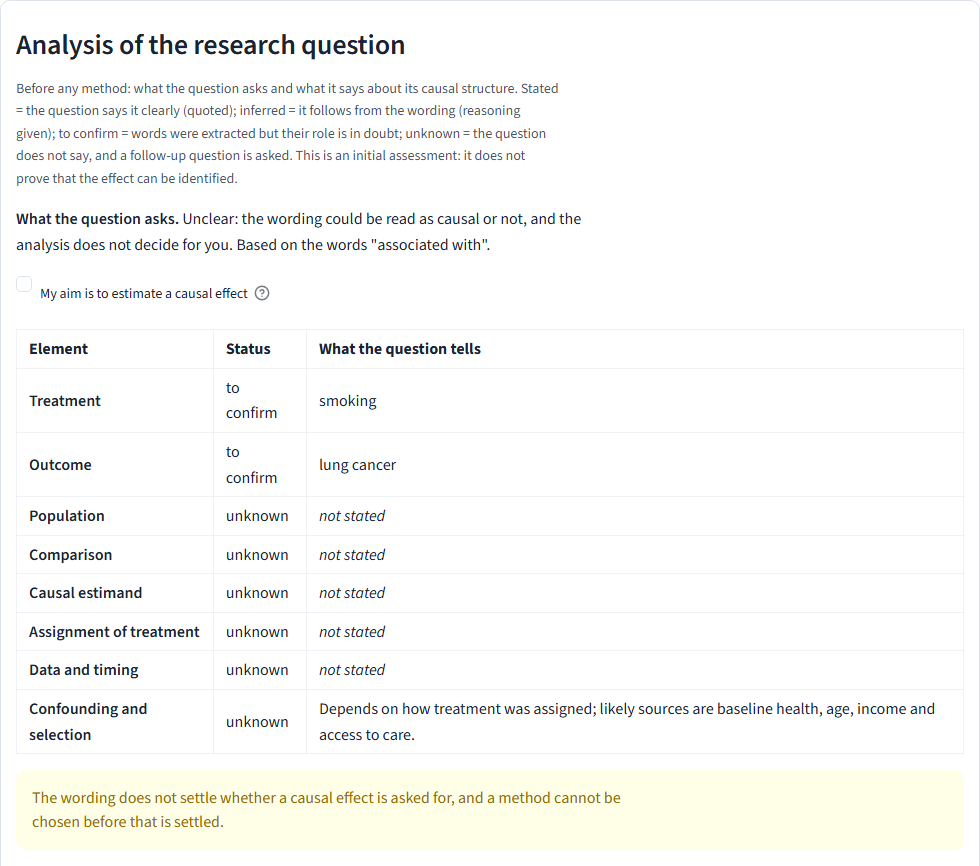
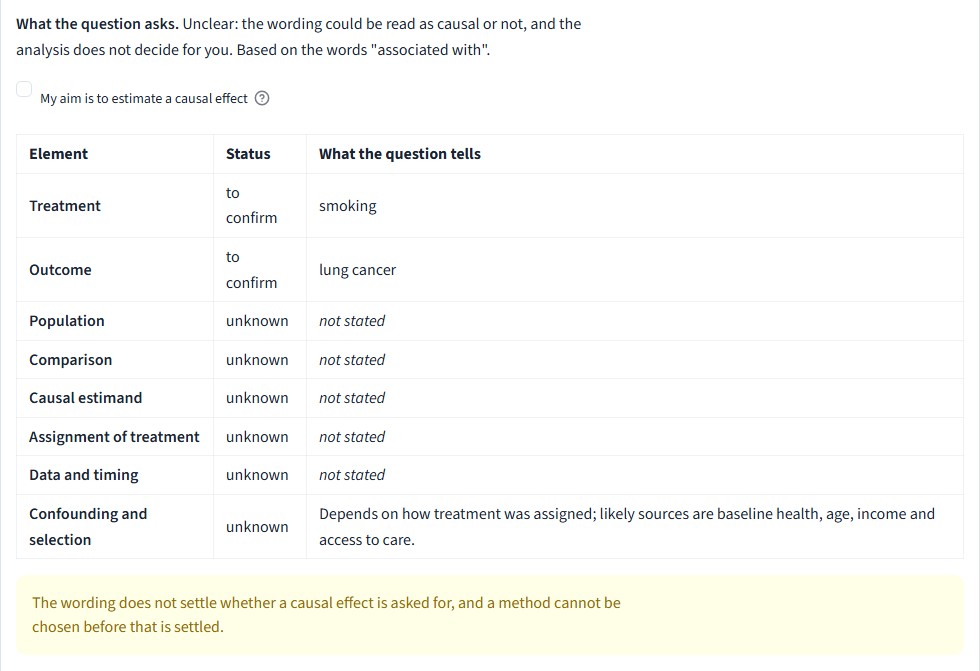
Promo page: the critique's five fixes (main result first, numbers beside the analyser, dated crops)

diff --git a/docs/index.html b/docs/index.html
@@ -56,10 +56,10 @@ img { display: block; max-width: 100%; height: auto; }
 
 /* First viewport: the question as a data portrait */
 .portrait { padding: clamp(1.5rem, 4vh, 3rem) var(--gutter) clamp(2rem, 5vh, 3.5rem); }
-.promise { font-size: clamp(1.6rem, 2.6vw, 2.6rem); max-width: 52ch; margin: 0 0 clamp(1.5rem, 4vh, 2.75rem); }
-.promise .k1 { text-decoration: underline; text-decoration-color: color-mix(in oklch, var(--pink) 85%, transparent); text-decoration-thickness: 0.22em; text-underline-offset: 0.02em; text-decoration-skip-ink: none; }
+.promise { line-height: 1.08; font-size: clamp(1.6rem, 2.6vw, 2.6rem); max-width: 52ch; margin: 0 0 clamp(1.5rem, 4vh, 2.75rem); }
+.promise .k1 { text-decoration: underline; text-decoration-color: var(--pink); text-decoration-thickness: 0.16em; text-underline-offset: 0.1em; text-decoration-skip-ink: none; }
 .promise .k2 { color: color-mix(in oklch, var(--blue) 85%, var(--ink)); }
-.promise .k3 { color: color-mix(in oklch, var(--crimson) 85%, var(--ink)); }
+.promise .k3 { color: var(--crimson); }
 .stage { display: grid; gap: clamp(1.25rem, 3vh, 2rem); }
 .question { display: grid; gap: clamp(0.5rem, 1.4vh, 1rem); margin: 0; font-size: clamp(2.4rem, 5.6vw, 6rem); }
 .question .line { display: flex; flex-wrap: wrap; align-items: flex-end; gap: 0.4rem clamp(0.5rem, 1.2vw, 1rem); }
@@ -79,7 +79,7 @@ img { display: block; max-width: 100%; height: auto; }
 .f-pink { --field: var(--pink); }
 .f-gold { --field: var(--gold); }
 .verdict { margin: 0; font-size: clamp(1.6rem, 2.6vw, 2.5rem); }
-.verdict span { color: var(--blue); }
+.speaker { font-family: var(--display); font-weight: 800; text-transform: uppercase; letter-spacing: 0.1em; font-size: 0.95rem; color: var(--ink-soft); margin: 0 0 0.6rem; }
 .action { display: flex; flex-wrap: wrap; align-items: center; gap: 1rem 2rem; }
 .try {
   display: inline-block; background: var(--blue); color: #FFFFFF; text-decoration: none;
@@ -104,6 +104,12 @@ img { display: block; max-width: 100%; height: auto; }
 .key span { display: inline-flex; align-items: center; gap: 0.5rem; }
 .key i { display: inline-block; width: 1.6rem; height: 1rem; background: var(--c); }
 
+.main-line { margin: clamp(1.5rem, 4vh, 2.5rem) 0 0; padding-top: 1rem; border-top: 2px solid var(--ink); font-weight: 600; font-size: 1.1rem; }
+.main-line a { color: var(--ink); text-decoration-color: var(--crimson); }
+.main-line a:hover { color: var(--crimson); }
+.evidence { margin: 1.2rem 0 0; padding-top: 0.8rem; border-top: 2px solid var(--ink); font-size: 0.98rem; color: var(--ink-soft); max-width: 62ch; }
+.evidence strong { color: var(--ink); }
+
 /* The one ruled line through the beats */
 .beats { position: relative; }
 .beats::before {
@@ -115,7 +121,7 @@ img { display: block; max-width: 100%; height: auto; }
   width: 1.2rem; height: 1.2rem; border-radius: 50%; background: var(--ink); border: var(--rule) solid var(--board);
 }
 .beat h2 { font-size: clamp(2.2rem, 5.2vw, 4.4rem); margin: 0 0 1.4rem; max-width: 18ch; }
-.beat .lede { max-width: 62ch; margin: 0 0 2rem; font-size: 1.2rem; }
+.beat .lede { max-width: 62ch; margin: 0 0 2rem; font-size: 1.2rem; text-wrap: pretty; }
 .beat .lede em { font-style: italic; }
 .pair { display: grid; grid-template-columns: minmax(0, 1fr); gap: 2rem; align-items: start; }
 @media (min-width: 64rem) { .pair { grid-template-columns: minmax(0, 5fr) minmax(0, 7fr); gap: 3rem; } }
@@ -147,6 +153,7 @@ img { display: block; max-width: 100%; height: auto; }
 .result .shot { border-color: #FFFFFF; }
 .result .shot figcaption { color: #D7DCE6; border-top-color: #FFFFFF; background: var(--ink); }
 .chart { margin: 0 0 2.5rem; max-width: 60rem; }
+.chart h3.second { margin-top: 1.6rem; }
 .chart h3 { font-family: var(--display); font-weight: 800; text-transform: uppercase; letter-spacing: 0.06em; font-size: 1.05rem; margin: 0 0 0.8rem; color: #D7DCE6; }
 .row { display: grid; grid-template-columns: minmax(9rem, 15rem) 1fr; gap: 0.4rem 1rem; align-items: center; margin-bottom: 0.65rem; }
 .row .k { font-family: var(--display); font-weight: 800; text-transform: uppercase; letter-spacing: 0.03em; line-height: 1.05; font-size: 1.15rem; }
@@ -176,8 +183,11 @@ th, td { text-align: left; white-space: nowrap; padding: 0.4rem 1.1rem 0.4rem 0;
 thead th { border-bottom: 2px solid var(--ink); font-weight: 700; }
 td.fails { color: var(--crimson); font-weight: 700; }
 .table-wrap { overflow-x: auto; }
+.v2-inline { display: none; }
+@media (max-width: 40rem) { .v2 { display: none; } .v2-inline { display: inline; } th, td { white-space: normal; } }
 .not { font-family: var(--display); font-weight: 800; font-size: clamp(1.6rem, 2.8vw, 2.4rem); line-height: 1.12; max-width: 30ch; margin: 0; text-wrap: balance; }
 .not-body { max-width: 62ch; margin: 1.2rem 0 0; }
+.close { margin: 2rem 0 0; }
 
 footer { border-top: var(--rule) solid var(--ink); padding: 2rem var(--gutter) 3rem; display: grid; gap: 0.6rem; font-size: 1rem; }
 footer .name { font-size: 1.9rem; margin: 0 0 0.4rem; }
@@ -200,6 +210,8 @@ footer p { margin: 0; max-width: 70ch; }
     <h1 id="promise" class="promise lettered"><span class="k k1">Causal Lab reads your research question first,</span> <span class="k k2">picks a method only once you confirm,</span> <span class="k k3">and shows you where your design breaks.</span></h1>
 
     <div class="stage">
+      <div>
+      <p class="speaker">You type</p>
       <p class="question lettered">
         <span class="visually-hidden">Is smoking associated with lung cancer? Smoking and lung cancer: to confirm. Associated with: unclear.</span>
         <span class="line" aria-hidden="true">
@@ -211,8 +223,10 @@ footer p { margin: 0; max-width: 70ch; }
           <span class="word field f-pink" style="--d: 360ms"><span class="w">lung cancer?</span><span class="tag">To confirm</span></span>
         </span>
       </p>
+      </div>
       <div class="answer">
-        <p class="verdict lettered">No method yet. <span>First: do you want a causal effect?</span></p>
+        <p class="speaker">Causal Lab answers</p>
+        <p class="verdict lettered">No method yet. First: do you want a causal effect?</p>
         <div class="action">
           <a class="try" href="https://causal-lab-a-virtual-laboratory-for-causal-research-busavtyebb.streamlit.app">Try it</a>
           <p class="for-whom">For students and researchers with a causal question who are about to choose a method.
@@ -220,6 +234,7 @@ footer p { margin: 0; max-width: 70ch; }
         </div>
       </div>
     </div>
+    <p class="main-line"><a href="#b3">The main result: on simulated worlds where its pre-trend test stays quiet, difference-in-differences misses the true effect 68.4% of the time&nbsp;↓</a></p>
   </section>
 
   <div class="key" role="note" aria-label="Colour key">
@@ -236,10 +251,12 @@ footer p { margin: 0; max-width: 70ch; }
     <section class="beat" aria-labelledby="b1">
       <h2 id="b1" class="lettered">It reads your question first.</h2>
       <div class="pair">
-        <p class="lede">Type <em>Is smoking associated with lung cancer?</em> Causal Lab says the question is unclear, marks <em>smoking</em> and <em>lung cancer</em> “to confirm”, and asks whether you want a causal effect. It does not pick a method until it knows what you want to know.</p>
+        <div><p class="lede">Type <em>Is smoking associated with lung cancer?</em> Causal Lab says the question is unclear, marks <em>smoking</em> and <em>lung cancer</em> “to confirm”, and asks whether you want a causal effect. It does not pick a method until it knows what you want to know.</p>
+        <p class="evidence"><strong>How well the question reader does</strong>, on frozen sets of published titles: precision 0.95 and recall 0.60 (fails its 0.70 target) on set 2; 1.00 and 0.83 on set 3, where version 2 scores 0.80; 0.96 and 0.86 on set 4, where version 2 scores 0.79. <a href="#checked">All four evaluations ↓</a></p>
+        </div>
         <figure class="shot">
-          <a href="img/beat1-question.png"><img src="img/beat1-question.png" width="980" height="866" alt="The Research Question screen of Causal Lab: What the question asks: unclear, based on the words 'associated with'. Treatment smoking and outcome lung cancer are marked 'to confirm'; population, comparison, estimand, assignment and data are unknown. A note says a method cannot be chosen before it is settled whether a causal effect is asked for."></a>
-          <figcaption>Screenshot from a real run of Causal Lab, Research Question screen. <a href="img/beat1-question.png">Open full size</a>.</figcaption>
+          <a href="img/beat1-question.png"><img src="img/beat1-question.png" width="980" height="671" alt="The Research Question screen of Causal Lab: What the question asks: unclear, based on the words 'associated with'. Treatment smoking and outcome lung cancer are marked 'to confirm'; population, comparison, estimand, assignment and data are unknown. A note says a method cannot be chosen before it is settled whether a causal effect is asked for."></a>
+          <figcaption>Real run of Causal Lab (app code of PR #41, question reader version 3.1), 13 November 2026, Research Question screen, cropped. <a href="img/beat1-question.png">Open full size</a>.</figcaption>
         </figure>
       </div>
     </section>
@@ -257,8 +274,8 @@ footer p { margin: 0; max-width: 70ch; }
           </ol>
         </div>
         <figure class="shot">
-          <a href="img/beat2-method.png"><img src="img/beat2-method.png" width="1010" height="560" alt="The Method Recommendation screen: Recommended method: Regression Discontinuity, for the effect of receiving a scholarship on university enrollment near the eligibility cutoff, with the causal estimand, why it fits, the identification strategy, key assumptions, and threats and diagnostics."></a>
-          <figcaption>Screenshot from a real run of Causal Lab, Method Recommendation screen. <a href="img/beat2-method.png">Open full size</a>.</figcaption>
+          <a href="img/beat2-method.png"><img src="img/beat2-method.png" width="660" height="236" alt="The Method Recommendation screen: Recommended method: Regression Discontinuity, for the effect of receiving a scholarship on university enrollment near the eligibility cutoff; the cutoff's role is inferred; causal estimand: local average treatment effect at the cutoff."></a>
+          <figcaption>Real run of Causal Lab (app code of PR #41, question reader version 3.1), 13 November 2026, Method Recommendation screen, cropped. <a href="img/beat2-method.png">Open full size</a>.</figcaption>
         </figure>
       </div>
     </section>
@@ -266,20 +283,21 @@ footer p { margin: 0; max-width: 70ch; }
     <section class="result" aria-labelledby="b3">
       <div class="beat">
         <h2 id="b3" class="lettered">The main result: difference-in-differences can fail while its test stays quiet.</h2>
-        <p class="lede">Difference-in-differences on 1,000 simulated worlds with a known effect of −0.50. With low diverging pre-trends, the estimate is off, on average, by 47% of the true effect (bias +0.236), and the 95% interval covers the truth in only 31.3% of worlds. The usual pre-trend test warns in just 14.2% of them. This is a known problem (<a href="https://doi.org/10.1257/aeri.20210236">Roth, 2022</a>); Causal Lab lets you watch it happen.</p>
+        <p class="lede">Difference-in-differences on 1,000 simulated worlds with a known effect of −0.50. With low diverging pre-trends, the estimate is off, on average, by 47% of the true effect (bias +0.236), and the 95% interval covers the truth in only 31.3% of all 1,000 worlds. The usual pre-trend test warns in just 14.2% of them. This is a known problem (<a href="https://doi.org/10.1257/aeri.20210236">Roth, 2022</a>); Causal Lab lets you watch it happen.</p>
 
         <div class="chart" role="img" aria-label="Average estimate against the true effect: the true effect is −0.50, the average estimate is −0.264. Of 1,000 worlds, 858 pass the pre-trend test; among them, 31.6% of intervals cover the truth and 68.4% miss it.">
-          <h3>Diverging pre-trends, low level, 1,000 worlds</h3>
+          <h3>Effect size: bar length is the size relative to the true effect</h3>
           <div class="row"><span class="k">True effect</span><div class="track"><span class="fill truth">−0.50</span></div></div>
           <div class="row"><span class="k">Average estimate</span><div class="track"><span class="fill estimate">−0.264</span></div></div>
+          <h3 class="second">Worlds: bar length is a share of worlds</h3>
           <div class="row"><span class="k">Test stays quiet</span><div class="track"><span class="fill quiet">858 of 1,000 worlds</span></div></div>
-          <div class="row"><span class="k">When the test is quiet, the 95% interval</span><div class="split"><span class="fill cover">covers 31.6%</span><span class="fill miss">misses 68.4%</span></div></div>
-          <p class="note">Bars drawn to scale: the estimate’s length is its size relative to the true effect. Source: the stored study, <a href="https://github.com/esst-prog2/CAUSAL-LAB-A-Virtual-Laboratory-for-Causal-Research/blob/main/docs/DEMO_DETAILS.md">DEMO_DETAILS.md</a> and <a href="https://github.com/esst-prog2/CAUSAL-LAB-A-Virtual-Laboratory-for-Causal-Research/blob/main/causal_lab/data/demo_study/results.json">results.json</a>.</p>
+          <div class="row"><span class="k">In those 858 quiet worlds, the 95% interval</span><div class="split"><span class="fill cover">covers 31.6%</span><span class="fill miss">misses 68.4%</span></div></div>
+          <p class="note">Diverging pre-trends, low level, 1,000 simulated worlds. Both groups are drawn to scale: the first against the true effect; in the second, the top bar against all 1,000 worlds and the bottom bar against the 858 quiet ones (31.6% of them cover the truth; over all 1,000 worlds, 31.3% do). The average estimate is the mean of the 1,000 estimates. Source: the stored study, <a href="https://github.com/esst-prog2/CAUSAL-LAB-A-Virtual-Laboratory-for-Causal-Research/blob/main/docs/DEMO_DETAILS.md">DEMO_DETAILS.md</a> and <a href="https://github.com/esst-prog2/CAUSAL-LAB-A-Virtual-Laboratory-for-Causal-Research/blob/main/causal_lab/data/demo_study/results.json">results.json</a>.</p>
         </div>
 
         <figure class="shot">
           <a href="img/beat3-study.png"><img src="img/beat3-study.png" width="1070" height="580" alt="The Guided Demo screen: table for diverging pre-trends by level. At low, bias +0.236, coverage 31.3%, the pre-trend test warns in 14.2% of worlds, and coverage when the test does not warn is 31.6% (n = 858). Below, a chart: coverage of the 95% interval falls from 94.9% to 0% as the violation grows, while the test's warning rate rises."></a>
-          <figcaption>Screenshot from a real run of Causal Lab, Guided Demo screen. <a href="img/beat3-study.png">Open full size</a>.</figcaption>
+          <figcaption>Real run of Causal Lab (app code of PR #41, question reader version 3.1), 13 November 2026, Guided Demo screen. <a href="img/beat3-study.png">Open full size</a>.</figcaption>
         </figure>
       </div>
     </section>
@@ -301,12 +319,12 @@ footer p { margin: 0; max-width: 70ch; }
             <p>Four frozen evaluations on 230 published article titles, failures included. It never recommended a method from the question alone. Recall is the share of causal questions it reads as causal (target 0.70); precision is how often it is right when it says causal.</p>
             <div class="table-wrap">
               <table>
-                <thead><tr><th scope="col">Set</th><th scope="col">Version</th><th scope="col">Precision</th><th scope="col">Recall</th><th scope="col">Version 2, same set</th></tr></thead>
+                <thead><tr><th scope="col">Set</th><th scope="col">Version</th><th scope="col">Precision</th><th scope="col">Recall</th><th scope="col" class="v2">Version 2, same set</th></tr></thead>
                 <tbody>
-                  <tr><td>1 (56 titles)</td><td>1</td><td>0.95</td><td class="fails">0.64, fails</td><td></td></tr>
-                  <tr><td>2 (58 titles)</td><td>2</td><td>0.95</td><td class="fails">0.60, fails</td><td></td></tr>
-                  <tr><td>3 (58 titles)</td><td>3</td><td>1.00</td><td>0.83</td><td>0.80</td></tr>
-                  <tr><td>4 (58 titles)</td><td>3.1</td><td>0.96</td><td>0.86</td><td>0.79</td></tr>
+                  <tr><td>1 (56 titles)</td><td>1</td><td>0.95</td><td class="fails">0.64, fails</td><td class="v2"></td></tr>
+                  <tr><td>2 (58 titles)</td><td>2</td><td>0.95</td><td class="fails">0.60, fails</td><td class="v2"></td></tr>
+                  <tr><td>3 (58 titles)</td><td>3</td><td>1.00</td><td>0.83<span class="v2-inline"> (v2 0.80)</span></td><td class="v2">0.80</td></tr>
+                  <tr><td>4 (58 titles)</td><td>3.1</td><td>0.96</td><td>0.86<span class="v2-inline"> (v2 0.79)</span></td><td class="v2">0.79</td></tr>
                 </tbody>
               </table>
             </div>
@@ -320,6 +338,7 @@ footer p { margin: 0; max-width: 70ch; }
       <h2 id="not" class="lettered">What it is not</h2>
       <p class="not">It helps you choose and understand a design. It does not establish causal identification.</p>
       <p class="not-body">Identification rests on assumptions about the world that data can sometimes refute and never prove. Causal Lab tells you which assumptions your design needs, and shows what happens when they fail.</p>
+      <p class="close"><a class="try" href="https://causal-lab-a-virtual-laboratory-for-causal-research-busavtyebb.streamlit.app">Try it</a></p>
     </section>
   </div>
 </main>

diff --git a/PROCESS.md b/PROCESS.md
@@ -12,3 +12,4 @@ How the promo page, the video and the slides were made (Advanced Programming, Se
 | 6 | 2026-11-13 | Impeccable's finish review | A fresh reviewer agent (no access to this conversation) judged the page against the design contract: verdict "fix", 8 material fixes: the first screen had become a split hero; the author missing from the top line; the beat 3 screenshot cut the "Mean estimate" column that is the source of −0.264; beat 2's bar lengths meant nothing; a shadow on the flat Try it button; the dark field of the main result not in the contract; screenshots unreadable on phones; a label that read as cut off. All fixed in one batch (the beat 3 screenshot retaken from a real run at 1700 px), plus a colour key. Second pass: all 8 resolved, verdict "ship" (on the fixes, not a new full review). | Kept the dark field for the main result. |
 | 7 | 2026-11-13 | The look, step 2: Impeccable `generate` (slide 10) | Impeccable's live mode served the page locally with its overlay and proposed three colour variants of the headline sentence, each keeping the page's colour meanings: restrained (the three clauses underlined in pink, set in blue, set in crimson), committed (each clause on a coloured field), drenched (the whole sentence on a blue field). After the choice it made the variant permanent in the page's own stylesheet and removed every live-mode marker. | Chose the headline and the colour direction. Picked variant 1, restrained, with the colour amount at 0.85. |
 | 8 | 2026-11-13 | The look, step 3: Impeccable `critique` (slide 10) | Two isolated agents assessed the page: a design review as a classmate, the teacher and a stranger (plus three standard personas), and the detector with a browser overlay. Score 23/32 (Good). Weakest part, named by the review: the first three screens sell the question reader (the extension) without its numbers, while the DiD study the teacher named the main contribution starts about three screens down. Four other issues: no speaker in the hero portrait; 31.3% and 31.6% side by side in beat 3 with two scales in one chart; screenshots unreadable and undated; on phones the analyser table hides the version 2 column. The detector found that the chosen headline's crimson rendered close to the threshold magenta. Report: `.impeccable/critique/` (git-ignored). | Fix all five issues, the teacher's order first. Keep the chosen headline variant, with its crimson corrected. |
+| 9 | 2026-11-13 | Fixing what the critique found | Claude Code fixed the five issues. A line under the first screen now points to the main result (68.4% of the quiet worlds miss the truth). The question reader's full set of numbers sits beside beat 1. "You type" and "Causal Lab answers" frame the portrait, and the verdict is in ink. The headline's crimson is the true failure colour, and its pink underline sits lower. Beat 3's chart has two titled scales and says which worlds 31.6% and 31.3% count. The screenshots are cropped to their proof and dated. On phones the version 2 figure sits in the recall cell. A last Try it closes the page. All were checked at 1440 and 390 pixels. | Chose the order: the teacher's hierarchy first, all five issues, keep the chosen headline with its colour corrected. |
